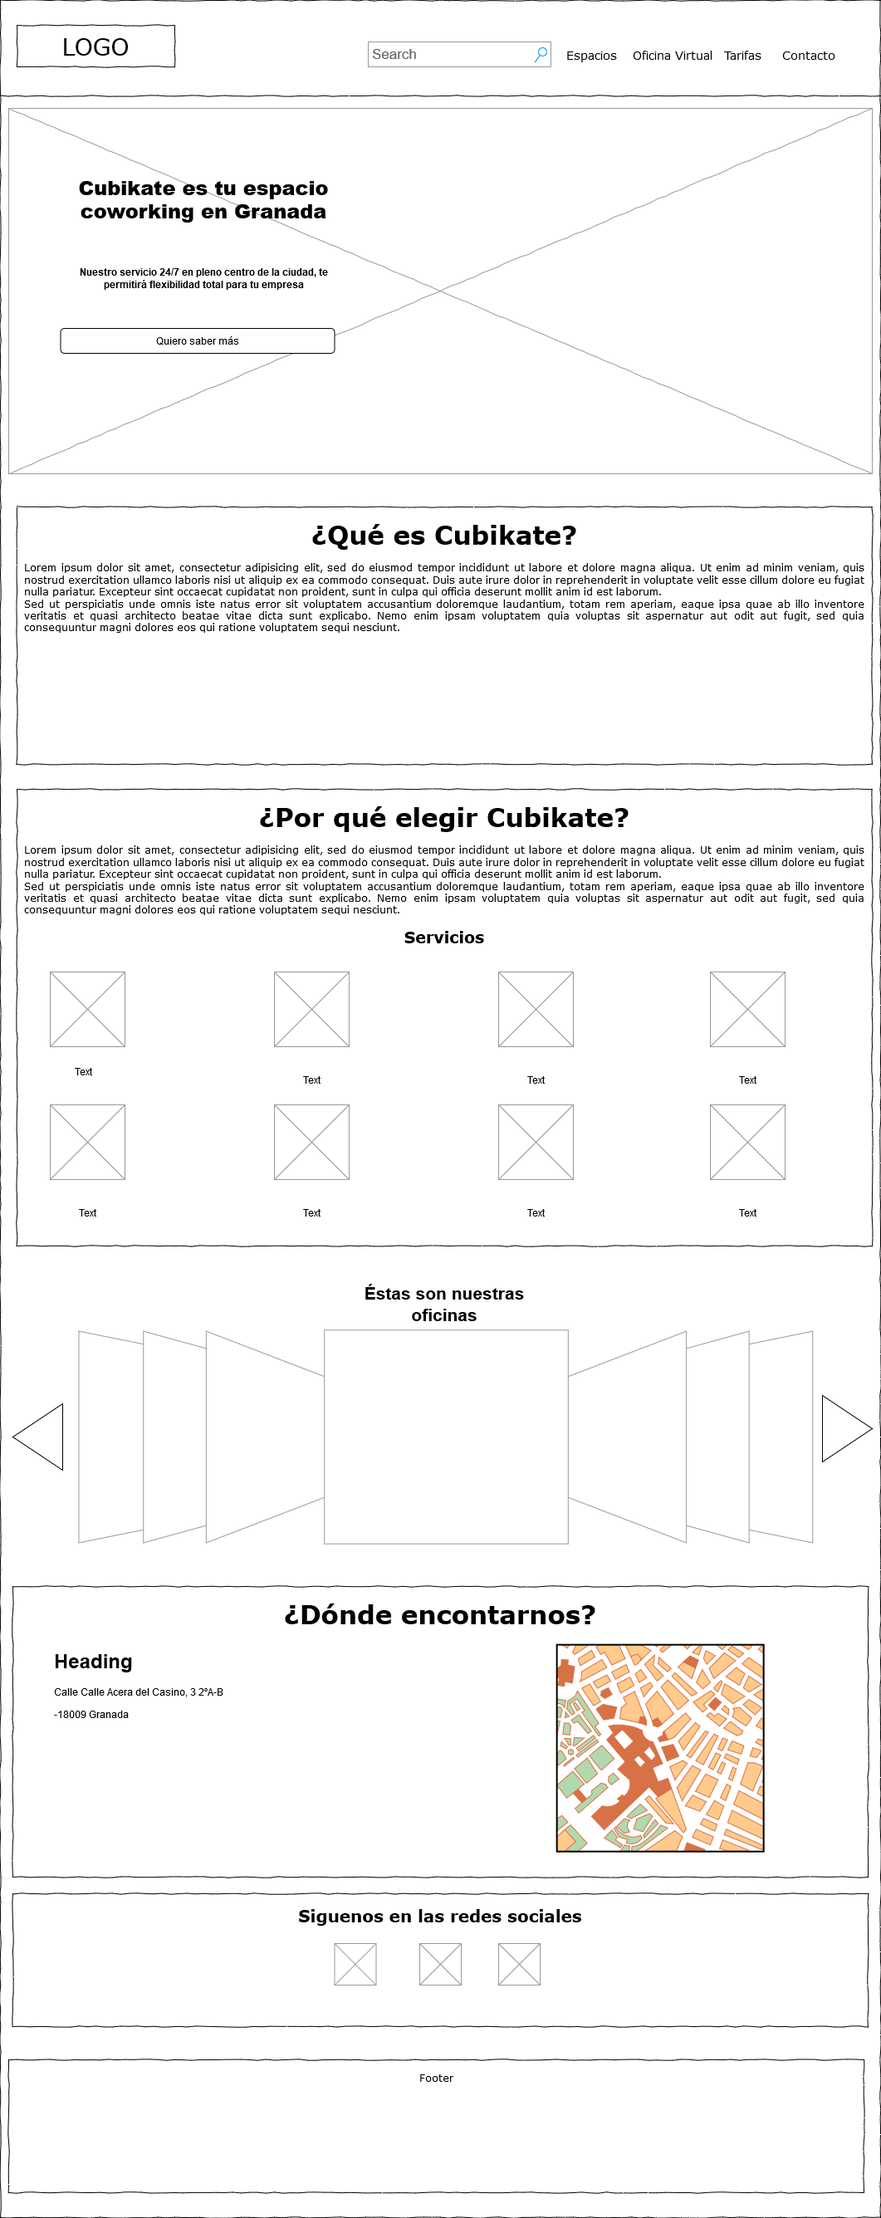
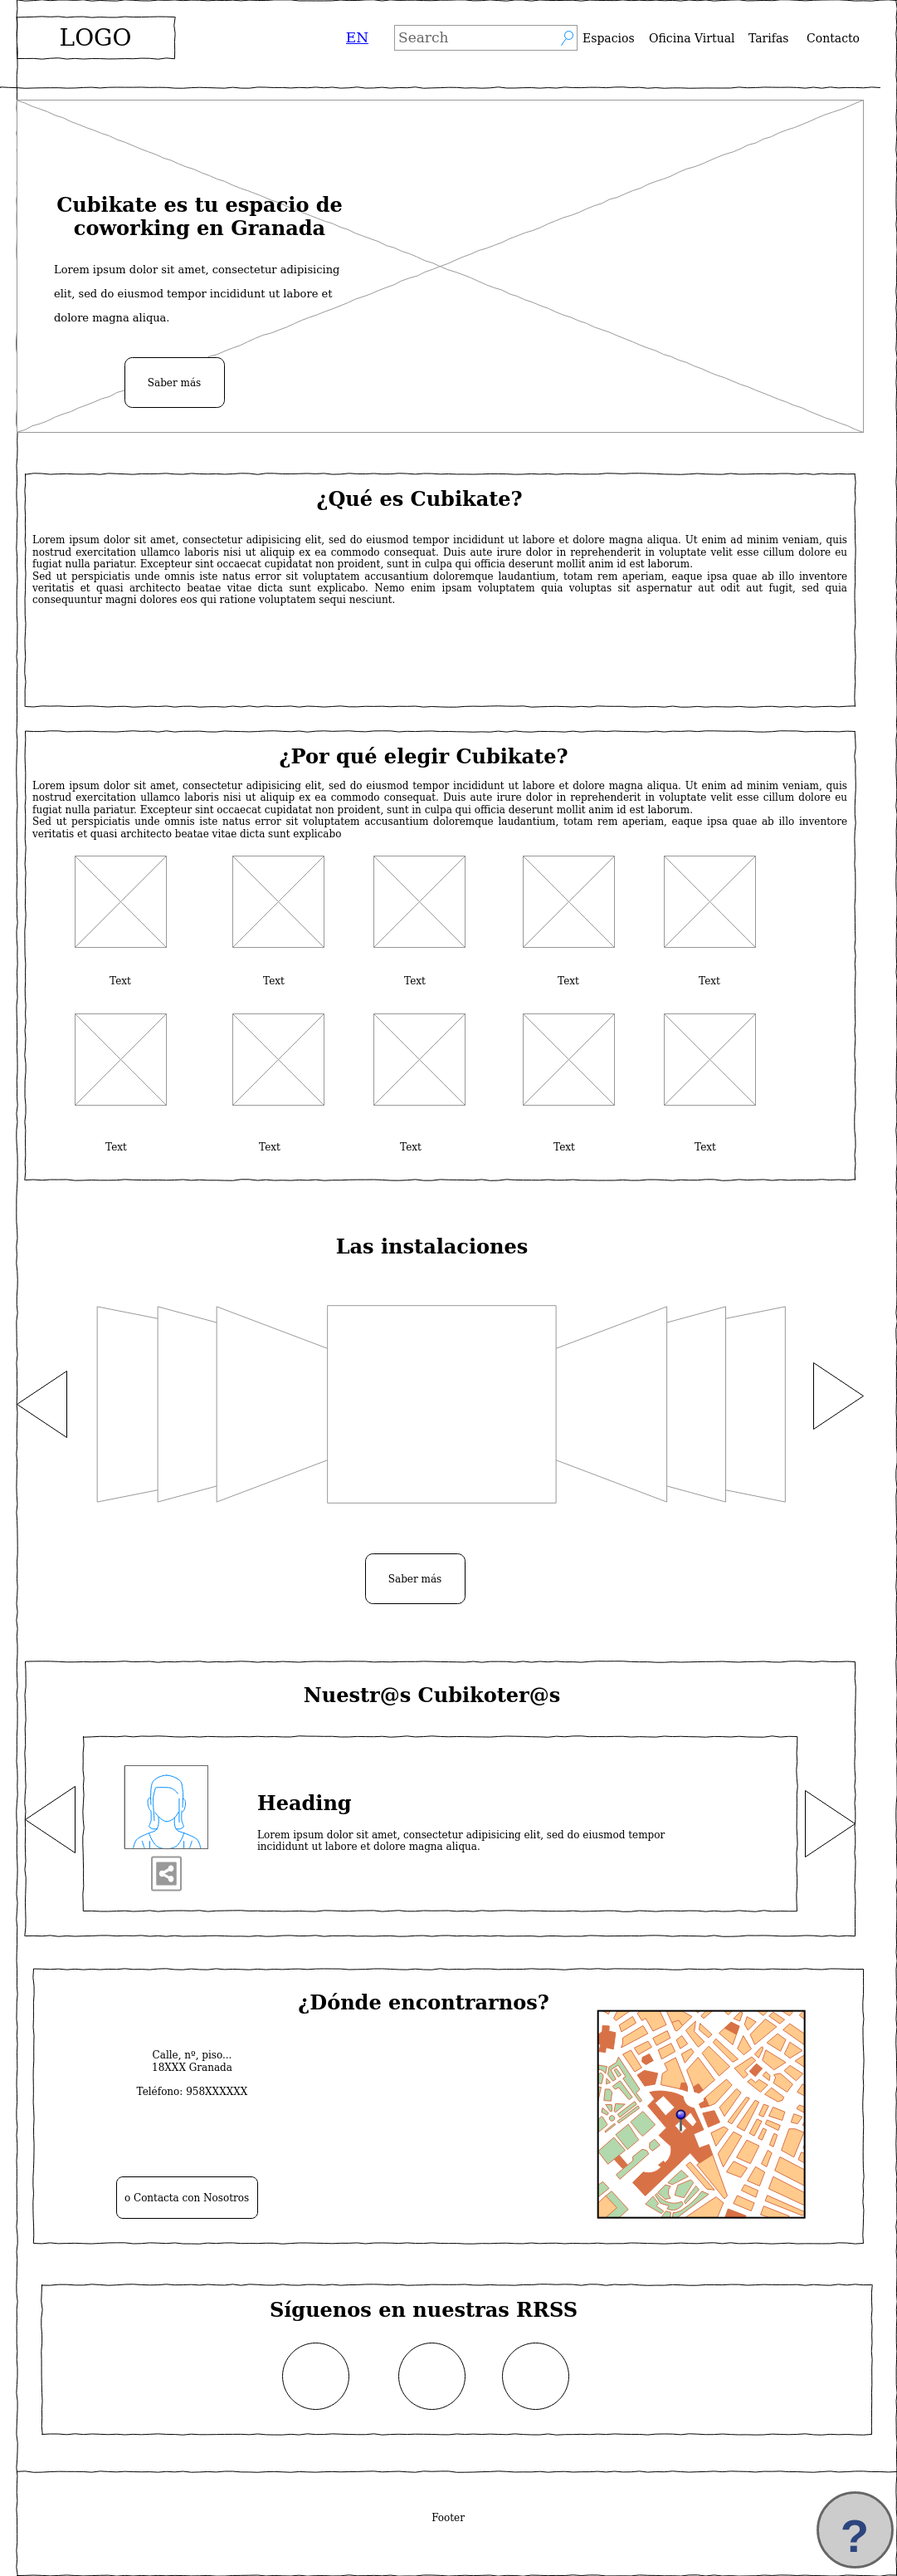
Final de repositorio

diff --git a/README.md b/README.md
@@ -152,5 +152,25 @@ Una vez vista la propuesta de valor, procedemos a ver el flujo del sitio, sin en
 |Contacto|Contact us| Formulario de contacto para consultas varias (que no sean reservas) 
 
 ## 6. Wireframes. Un esbozo del rediseño.
+---
 #### Página de inicio
 ![Inicio](img/Inicio.png)
+#### Página de espacios
+![Espacios](img/Espacios.png)
+#### Página de tarifas
+![Tarifas](img/Tarifas.png)
+#### Página de reserva
+![Reservas](img/Reserva.png)
+
+## 7. Guidelines. Colores, letras y normas de estilo.
+---
+Para las guidelines seguiremos las tendencias que se dan últimamente. La idea es que la homepage logre captar la atención del usuario, y las demás páginas son ya para complementar y seguir un hilo conductor. Como es una web, el diseño debería ser resonsivo y con una consistencia en cuestiones de diseño. La información debería ser clara y concisa, enfatizando lo más importante, manteniendo así un diseño simple.
+
+Así pues, dejo en la siguiente infografía una serie de tipografías y colores, dejando en medida de lo posible lo que ya estaba hecho. Por tanto, mantendremos el logo, la iconografía (con color cambiado) y el azul #406175.
+
+#### Colores
+![Colores](img/Colores.png)
+#### Tipografías
+**Títulos: *Fira Sans*** <img src="img/FiraSans.png">
+**Contenido: *Lato*** <img src="img/Lato.png">
+
